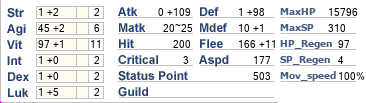
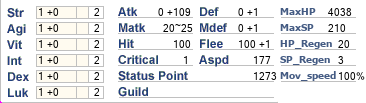
Finished adaption script for main attributes

diff --git a/ragnarok/model/build_model.py b/ragnarok/model/build_model.py
@@ -52,15 +52,15 @@ class PlayerBuild:
         self.max_job = self.job_bonuses_list[current_job]['MAX_JOB']
 
         # classes
+        self.u_dict = self.universal_script()
 
         # incremento dos atributos de acordo com o nível atual de classe
-        att_book = self.script_corestat_bonus()
-        self.str_bonus = self.evaluate_stat_bonus(self.job_level, self.job_bonuses_list[current_job]['STR']) + att_book["str"]
-        self.agi_bonus = self.evaluate_stat_bonus(self.job_level, self.job_bonuses_list[current_job]['AGI']) + att_book["agi"]
-        self.vit_bonus = self.evaluate_stat_bonus(self.job_level, self.job_bonuses_list[current_job]['VIT']) + att_book["vit"]
-        self.int_bonus = self.evaluate_stat_bonus(self.job_level, self.job_bonuses_list[current_job]['INT']) + att_book["int"]
-        self.dex_bonus = self.evaluate_stat_bonus(self.job_level, self.job_bonuses_list[current_job]['DEX']) + att_book["dex"]
-        self.luk_bonus = self.evaluate_stat_bonus(self.job_level, self.job_bonuses_list[current_job]['LUK']) + att_book["luk"]
+        self.str_bonus = self.evaluate_stat_bonus(self.job_level, self.job_bonuses_list[current_job]['STR']) + self.u_dict["+str"]
+        self.agi_bonus = self.evaluate_stat_bonus(self.job_level, self.job_bonuses_list[current_job]['AGI']) + self.u_dict["+agi"]
+        self.vit_bonus = self.evaluate_stat_bonus(self.job_level, self.job_bonuses_list[current_job]['VIT']) + self.u_dict["+vit"]
+        self.int_bonus = self.evaluate_stat_bonus(self.job_level, self.job_bonuses_list[current_job]['INT']) + self.u_dict["+int"]
+        self.dex_bonus = self.evaluate_stat_bonus(self.job_level, self.job_bonuses_list[current_job]['DEX']) + self.u_dict["+dex"]
+        self.luk_bonus = self.evaluate_stat_bonus(self.job_level, self.job_bonuses_list[current_job]['LUK']) + self.u_dict["+luk"]
 
         # somatórios de status
         self.str += self.str_bonus
@@ -71,24 +71,23 @@ class PlayerBuild:
         self.luk += self.luk_bonus
 
         # esquiva, precisão, crítico e bônus de regen
-        flee_book = self.script_flee()
-        self.flee_bonuses = flee_book["flee"]
-        self.perfect_dodge_bonuses = flee_book["perfect_flee"]
-        self.hit_bonuses = self.script_hit()
-        self.crit_bonuses = 0
-        self.hpr_mod = 0
-        self.spr_mod = 0
+        self.flee_bonuses = self.u_dict["+flee"]
+        self.perfect_dodge_bonuses = self.u_dict["+perfectdodge"]
+        self.hit_bonuses = self.u_dict["+hit"]
+        self.crit_bonuses = self.u_dict["+crit"]
+        self.hpr_mod = self.u_dict['+hprecovery_%']
+        self.spr_mod = self.u_dict['+sprecovery_%']
 
         # cálculo do HP
         self.trans_mod = self.job_bonuses_list[current_job]['TRANS_MOD']
-        self.additive_modifiers = 0
-        self.multiplicative_modifiers = 0
+        self.additive_modifiers = self.u_dict["+maxhp_flat"]
+        self.multiplicative_modifiers = self.u_dict["+maxhp_%"]
         self.base_hp = list(self.hp_df[self.current_job])[self.base_level]
         self.max_hp = self.calculate_max_hp()
 
         # cálculo do SP
-        self.sp_mod_a = 0
-        self.sp_mod_b = 0
+        self.sp_mod_a = self.u_dict["+maxsp_flat"]
+        self.sp_mod_b = self.u_dict["+maxsp_%"]
         self.max_sp = self.calculate_max_sp()
 
         # esquiva
@@ -145,16 +144,17 @@ class PlayerBuild:
 
         # Defesa
         self.def_hard = self.script_hard_defense()
-        self.def_soft = self.script_soft_defense()
+        self.def_soft = math.floor(self.vit * (1 + (self.u_dict['+softdef_%'] / 100)))
 
         # Defesa mágica
-        mdef_book = self.script_magic_defense()
-        self.mdef_hard = mdef_book['hard']
-        self.mdef_soft = mdef_book['soft']
+        self.mdef_hard = self.u_dict["+mdef_flat"]
+        self.mdef_soft = self.int
 
         # Ataque mágico
         self.matk_min = 20
         self.matk_max = 25
+
+        print('cara? {}'.format(self.universal_script()))
 
     def calculate_base_hp(self):
         hp_job_a = self.job_bonuses_list[self.current_job]['HP_JOB_A']
@@ -185,73 +185,26 @@ class PlayerBuild:
     def script_hard_defense(self) -> int:
         hard_def = 0
         hard_def += self.playergear.total_defense()
-        hard_def_a = 0
-        hard_def_b = 0
-
-        for element in self.script_dict['Flat_list']:
-            if element[0] == "+def_flat":
-                hard_def_a += int(element[1])
-            if element[0] == "+def_%":
-                hard_def_b += int(element[1])
+        hard_def_a = self.u_dict['+def_flat']
+        hard_def_b = self.u_dict['+def_%']
 
         hard_def += hard_def_a
         hard_def = math.floor(hard_def * (1 + (hard_def_b / 100)))
         return hard_def
 
-    def script_soft_defense(self) -> int:
-        soft_def = 0
-        soft_def += self.vit
-        soft_def_a = 0
-        soft_def_b = 0
+    def universal_script(self) -> dict:
+        key_list = [j[0] for j in self.script_dict['Flat_list']]
+        key_list += ["+str", "+agi", "+vit", "+int", "+dex", "+luk", "+def_flat", "+def_%", "+softdef_%", "+mdef_flat",
+                     "+flee", "+perfectdodge", "+hit", "+hprecovery_%", "+sprecovery_%", "+crit",
+                     "+maxhp_flat", "+maxsp_flat", "+maxhp_%", "+maxsp_%"]
+        key_dict = dict.fromkeys(set(key_list), 0)
+        forbidden_list = ("whenhit_badstatus", "afterkill_drainsp", "resist_element_%")
 
         for element in self.script_dict['Flat_list']:
-            if element[0] == "+softdef_%":
-                soft_def_b += int(element[1])
+            if element[0] not in forbidden_list:
+                key_dict[element[0]] += int(element[1])
 
-        soft_def += soft_def_a
-        soft_def = math.floor(soft_def * (1 + (soft_def_b / 100)))
-        return soft_def
-
-    def script_magic_defense(self) -> dict:
-        hard_mdef = 0
-        hard_mdef_a = 0
-        for element in self.script_dict['Flat_list']:
-            if element[0] == "+mdef_flat":
-                hard_mdef_a += int(element[1])
-        hard_mdef += hard_mdef_a
-
-        return {"hard": hard_mdef, "soft": self.int}
-
-    def script_flee(self) -> dict:
-        flee_dict = {"flee": 0, "perfect_flee": 0}
-        for element in self.script_dict['Flat_list']:
-            if element[0] == "+flee":
-                flee_dict["flee"] += int(element[1])
-            if element[0] == "+perfectdodge":
-                flee_dict["perfect_flee"] += int(element[1])
-        return flee_dict
-
-    def script_corestat_bonus(self) -> dict:
-        corestat_book = {"str": 0, "agi": 0, "vit": 0, "int": 0, "dex": 0, "luk": 0}
-        for element in self.script_dict['Flat_list']:
-            if element[0] == "+str":
-                corestat_book["str"] += int(element[1])
-            if element[0] == "+agi":
-                corestat_book["agi"] += int(element[1])
-            if element[0] == "+vit":
-                corestat_book["vit"] += int(element[1])
-            if element[0] == "+dex":
-                corestat_book["dex"] += int(element[1])
-            if element[0] == "+luk":
-                corestat_book["luk"] += int(element[1])
-        return corestat_book
-
-    def script_hit(self) -> int:
-        core_hit = 0
-        for element in self.script_dict['Flat_list']:
-            if element[0] == "+hit":
-                core_hit += int(element[1])
-        return core_hit
+        return key_dict
 
 
 

diff --git a/ragnarok/main/gear_query.py b/ragnarok/main/gear_query.py
@@ -11,6 +11,8 @@ def is_equipable(player_job: str, player_level: int, ch: dict):
     current_job = player_job.lower()
     if current_job == 'super_novice':
         current_job = 'SuperNovice'
+    if current_job == "swordsman":
+        current_job = "Swordman"
     if 'Upper' in ch['Classes'].keys():
         if current_job not in job70:
             return False, 'Transclass only'
@@ -46,6 +48,9 @@ def generate_equipable_gear(player_class: str, player_level: int) -> dict:
     equipable_armor = set()
     equipable_robe = set()
     equipable_accessory = set()
+
+    if player_class.lower() == "swordsman":
+        player_class = "Swordman"
 
     for a in hat_db:
         aux = is_equipable(player_class, player_level, hat_db[a])
@@ -135,19 +140,6 @@ def retrieve_id_by_name(gear_name: str):
                 else:
                     possible_ids.append(equip_db[j]['Id'])
         return max(possible_ids)
-
-        # for k in equip_db.values():
-        #     if k['Name'].lower() == gear_name[0].lower():
-        #         plausible_ids[k['Id']] = k['Slots']
-        # print('plausible_ids = {}'.format(plausible_ids))
-        # # if ' [1]' in original_name:
-        # if any(x in original_name for x in [' [1]', ' [2]', ' [3]', ' [4]']):
-        #     for g_id, g_slot in plausible_ids.items():  # for name, age in dictionary.iteritems():  (for Python 2.x)
-        #         if g_slot == gear_name[1]:
-        #             return g_id
-        # else:
-        #     # mudar para minimo
-        #     return min(plausible_ids, key=plausible_ids.get)
 
 
 def retrieve_card_id_by_name(card_name: str):
@@ -311,7 +303,6 @@ def normalize_form_values(pi: dict) -> dict:
               ('accessory1', 'accessory1'), ('accessory2', 'accessory2'), ('weapon', 'weapon')]:
         if q[0] is not 'weapon':
             item_t = normalize_form_values_tuple_gen(q[1], q[0], pi)
-            # print('item_t = {}'.format(item_t))
             p1_gear[item_t['key']] = item_t['tuple']
         else:
             item_t = normalize_form_values_tuple_gen_for_weapon(q[1], q[0], pi)
@@ -457,9 +448,5 @@ void_gear = dict_name_to_dict_id(void_dict)
 
 # print('')
 # print('')
-list_a = [28, 12, 93, 58, 40, 54]
-list_b = [40, 28, 92, 58, 50, 62]
 
-list_c = [(x * 0 if x == y else y) for x, y in zip(list_a, list_b)]
-list_c = [(x * 0 if x > y else y) for x, y in zip(list_a, list_c)]
-print(list_c)
+print(generate_equipable_weapons("Swordsman", 99))

diff --git a/ragnarok/model/equip_model.py b/ragnarok/model/equip_model.py
@@ -609,7 +609,7 @@ text_dict = {"headgear1": ("Valkyrie Feather Band [1]", "4", "Elder Willow Card"
              "headgear2": ("Red Glasses", 0, "(No Card)"),
              "headgear3": ('Rainbow Scarf', 0, "(No Card)"),
              "shield": ('Guard [1]', '7', "Ambernite Card"),
-             "shoes": ('Crystal Pumps', '4', "(No Card)"),
+             "shoes": ('Sandals [1]', '4', "Zombie Card"),
              "armor": ("Formal Suit [1]", "7", "Dokebi Card"),
              "robe": ("Muffler [1]", "7", "Raydric Card"),
              "accessory1": ("Glove [1]", 0, "Mantis Card"),
